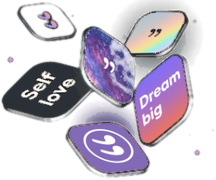
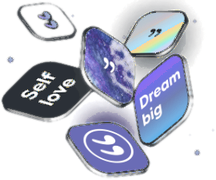
feat(theme): sky-to-indigo accent, illustrations included
The pink-to-violet accent goes, at the client's request, for sky blue
running into an indigo violet. One direction everywhere — light to dark,
in the reading direction — so the ink type a banner or a CTA carries sits
on the sky end and a toggle's knob on the indigo end. The banner reads the
same gradient as everything else now, so `colorsReversed` is gone. The
glyphs drawn on the accent, the streak's check and the trial rail's icons,
turn ink: white sank into the sky end.

The profile illustrations were tinted in the old accent. A script moves
every pixel in their violet-to-pink arc toward indigo and sky and leaves
the ink outlines alone, and can redo it for any new drawing that arrives
in the old colours. The app-icon backdrops, the Android notification light
and the widget contour follow the tokens.

diff --git a/apps/mobile/src/theme/tokens.ts b/apps/mobile/src/theme/tokens.ts
@@ -30,8 +30,11 @@ export const palette = {
   silver400: "#C3CCD7",
 
   // Accent — celebration & conversion only, never a page background.
-  violet: "#8B7FE8",
-  blush: "#F2A8B4",
+  // Sky blue running into an indigo violet. It replaced a pink-to-violet
+  // pair at the client's request; nothing else in the app reads as pink
+  // now, illustrations included.
+  sky: "#87CEEB",
+  indigo: "#5E5CE6",
 
   // Feedback
   coral: "#FF6B6B",
@@ -152,8 +155,8 @@ export const widgetSurface = {
   /** The card. Ink, like the design's widget preview — never the gradient. */
   card: palette.ink900,
   /** The accent's one job on a widget: a 1.5 px contour around the card. */
-  gradientFrom: palette.violet,
-  gradientTo: palette.blush,
+  gradientFrom: palette.sky,
+  gradientTo: palette.indigo,
   contour: 1.5,
 
   text: palette.white,
@@ -161,19 +164,24 @@ export const widgetSurface = {
   textFaint: palette.slate300,
 } as const;
 
-/** The accent gradient. Four sanctioned uses — see spec §2.3. */
+/**
+ * The accent gradient. Four sanctioned uses — see spec §2.3.
+ *
+ * Always light→dark, sky→indigo, in the reading direction: left to right,
+ * top to bottom. That puts the pale end under the ink type a banner or a
+ * CTA carries and the dark end under a toggle's knob, so neither vanishes
+ * into its ground.
+ */
 export const gradient = {
-  from: palette.violet,
-  to: palette.blush,
-  /** Left→right for CTAs and toggle tracks. */
+  from: palette.sky,
+  to: palette.indigo,
+  /** Left→right for CTAs, toggle tracks and the promo banner. */
   horizontal: { start: { x: 0, y: 0 }, end: { x: 1, y: 0 } },
   /** Top→bottom for the trial timeline rail and the streak flame. */
   vertical: { start: { x: 0, y: 0 }, end: { x: 0, y: 1 } },
-  /** Diagonal for filled promo banners. */
+  /** Diagonal for gradient outlines and the tile art. */
   diagonal: { start: { x: 0, y: 0 }, end: { x: 1, y: 1 } },
-  /** Banner reads pink→violet, the reverse of every other gradient. */
-  colorsReversed: [palette.blush, palette.violet] as const,
-  colors: [palette.violet, palette.blush] as const,
+  colors: [palette.sky, palette.indigo] as const,
 } as const;
 
 export const space = {

diff --git a/apps/mobile/src/services/appIconService.ts b/apps/mobile/src/services/appIconService.ts
@@ -33,7 +33,7 @@ export const appIcons: AppIconOption[] = [
   { id: "default", backdrop: palette.white, markTint: palette.ink900 },
   {
     id: "galaxy",
-    backdrop: [palette.violet, palette.ink900],
+    backdrop: [palette.indigo, palette.ink900],
     markTint: palette.white,
   },
   { id: "noir", backdrop: palette.ink800, markTint: palette.slate200 },
@@ -43,22 +43,22 @@ export const appIcons: AppIconOption[] = [
     markTint: palette.ink900,
   },
   { id: "light", backdrop: palette.slate200, markTint: palette.ink900 },
-  { id: "doNotQuit", backdrop: palette.violet, markTint: palette.white },
+  { id: "doNotQuit", backdrop: palette.indigo, markTint: palette.white },
   {
     id: "pastel",
-    backdrop: [palette.blush, palette.violet],
+    backdrop: [palette.sky, palette.indigo],
     markTint: palette.ink900,
     isPremium: true,
   },
   {
     id: "chaseYourDreams",
-    backdrop: palette.blush,
+    backdrop: palette.sky,
     markTint: palette.ink900,
     isPremium: true,
   },
   {
     id: "holo",
-    backdrop: [palette.mint, palette.violet],
+    backdrop: [palette.mint, palette.indigo],
     markTint: palette.white,
     isPremium: true,
   },

diff --git a/apps/mobile/src/features/paywall/components/TrialTimeline.tsx b/apps/mobile/src/features/paywall/components/TrialTimeline.tsx
@@ -70,7 +70,9 @@ export function TrialTimeline({ steps }: { steps: TrialStep[] }) {
         {steps.map((step) => (
           <View key={step.title} style={s.step}>
             <View style={s.icon}>
-              <Ionicons name={step.icon} size={18} color={t.palette.white} />
+              {/* Ink, like every glyph on the accent: white vanished on
+                  the sky end of the rail. */}
+              <Ionicons name={step.icon} size={18} color={t.base.onAccent} />
             </View>
             <View style={s.text}>
               <Text

diff --git a/apps/mobile/src/features/streak/StreakWeek.tsx b/apps/mobile/src/features/streak/StreakWeek.tsx
@@ -109,7 +109,9 @@ export function StreakWeek({
                     <Ionicons
                       name="checkmark"
                       size={18}
-                      color={t.palette.white}
+                      // Ink, like every glyph on the accent: white sank
+                      // into the sky end of the dot.
+                      color={t.base.onAccent}
                     />
                   </>
                 ) : null}

diff --git a/apps/mobile/src/services/notificationService.ts b/apps/mobile/src/services/notificationService.ts
@@ -238,7 +238,7 @@ export const setupNotificationChannel = async (): Promise<void> => {
       importance: Notifications.AndroidImportance.HIGH,
       vibrationPattern: [0, 250, 250, 250],
       // The LED/notification tint follows the app accent.
-      lightColor: palette.violet,
+      lightColor: palette.indigo,
     });
   }
 };

diff --git a/apps/mobile/src/ui/Card.tsx b/apps/mobile/src/ui/Card.tsx
@@ -87,7 +87,7 @@ export function GradientCard({
   const t = useTheme();
   return (
     <LinearGradient
-      colors={[...t.gradient.colorsReversed]}
+      colors={[...t.gradient.colors]}
       start={t.gradient.horizontal.start}
       end={t.gradient.horizontal.end}
       style={[s.filled, style]}

diff --git a/apps/mobile/scripts/recolor-illustrations.py b/apps/mobile/scripts/recolor-illustrations.py
@@ -1,0 +1,58 @@
+#!/usr/bin/env python3
+"""
+Moves the profile illustrations from the pink–violet accent to the sky one
+(sky blue → indigo). See src/theme/tokens.ts, `palette.sky`.
+
+The drawings are third-party art tinted in the reference app's accent.
+Rather than redraw them, every saturated pixel whose hue sits in the
+violet-to-pink arc (255° through 360° and on to 35°) is turned toward
+indigo (240°) and, for the pinks, sky blue (197°); ink outlines and anything
+mint or yellow are left alone. Run it on the originals: a second run finds
+nothing left in the arc, so it cannot be re-tuned without
+`git checkout -- assets/illustrations/profile` first.
+
+    python3 scripts/recolor-illustrations.py
+"""
+from __future__ import annotations
+
+import glob
+import os
+
+import numpy as np
+from PIL import Image
+
+ARC_START = 255.0  # violet
+ARC_END = 35.0     # past red, into orange
+ARC_LEN = (360.0 - ARC_START) + ARC_END
+
+
+def recolor(path: str) -> int:
+    im = Image.open(path).convert("RGBA")
+    rgba = np.array(im)
+    hsv = np.array(im.convert("RGB").convert("HSV")).astype(np.float32)
+    h = hsv[..., 0] * 360.0 / 255.0
+    s = hsv[..., 1] / 255.0
+    v = hsv[..., 2] / 255.0
+    alpha = rgba[..., 3]
+
+    in_arc = ((h >= ARC_START) | (h < ARC_END)) & (s > 0.06) & (alpha > 0)
+    if not in_arc.any():
+        return 0
+
+    t = ((h - ARC_START) % 360.0) / ARC_LEN  # 0 at violet, 1 at orange
+    new_h = 240.0 - 43.0 * t                  # indigo → sky blue
+    new_s = s                                 # sky keeps the pinks' saturation
+
+    h2 = np.where(in_arc, new_h, h)
+    s2 = np.where(in_arc, new_s, s)
+    out = np.stack([h2 * 255.0 / 360.0, s2 * 255.0, v * 255.0], axis=-1)
+    rgb = Image.fromarray(np.clip(out, 0, 255).astype(np.uint8), "HSV").convert("RGB")
+    result = np.dstack([np.array(rgb), alpha])
+    Image.fromarray(result, "RGBA").save(path, optimize=True)
+    return int(in_arc.sum())
+
+
+if __name__ == "__main__":
+    for path in sorted(glob.glob("assets/illustrations/profile/*.png")):
+        changed = recolor(path)
+        print(f"{os.path.basename(path)}: {changed} px")

diff --git a/docs/DESIGN_SYSTEM_V2.md b/docs/DESIGN_SYSTEM_V2.md
@@ -19,7 +19,7 @@ Trois règles non négociables, dont découle tout le reste.
    (`base`), tantôt par-dessus une photo plein écran (`image`). Ce ne sont pas
    deux variantes de clair/sombre : les contrastes, les flous et la typographie
    diffèrent. Un composant déclare sur quelle surface il vit, jamais une couleur.
-3. **Le dégradé est un accent, pas une identité.** Le violet→rose n'apparaît que
+3. **Le dégradé est un accent, pas une identité.** Le ciel→indigo n'apparaît que
    sur une célébration (série), un appel à l'action de conversion, un contour de
    carte premium et les illustrations. Jamais comme fond d'écran, jamais comme
    fond de bouton ordinaire.
@@ -101,8 +101,8 @@ série. Tout est translucide et flouté.
 ### 2.3 Dégradé
 
 ```
-accent.from  #8B7FE8   (violet)
-accent.to    #F2A8B4   (rose)
+accent.from  #87CEEB   (bleu ciel)
+accent.to    #5E5CE6   (indigo violet)
 ```
 
 Quatre emplois, et seulement ceux-là :
@@ -111,6 +111,13 @@ Quatre emplois, et seulement ceux-là :
 - **contour 1,5 px** : carte du plan personnalisé, carte du paywall, aperçu du widget ;
 - **rail vertical** : chronologie de l'essai gratuit ;
 - **piste de toggle** à l'état actif, et la flamme de série.
+
+Toujours du clair au foncé dans le sens de lecture (gauche→droite,
+haut→bas) : le texte encre d'une bannière ou d'un CTA tombe sur le bout
+ciel, le bouton d'un toggle sur le bout indigo. Les illustrations du profil
+sont teintées dans le même accent : `scripts/recolor-illustrations.py` a
+déplacé leurs roses et violets vers le ciel, et refait le travail si de
+nouvelles arrivent dans l'ancien accent.
 
 ### 2.4 Espacement, rayons, durées
 
